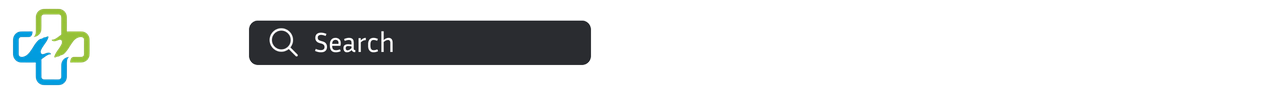
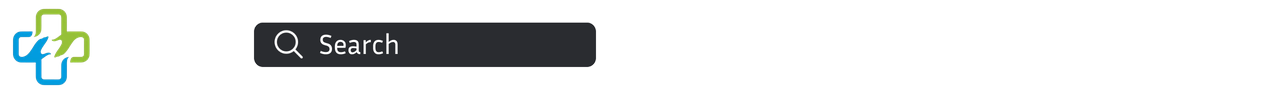
Gui updated.

Changed region(s): [[0.185, 0.2128, 0.4933, 0.7234]]

diff --git a/Interface/gui_win1.py b/Interface/gui_win1.py
@@ -1,0 +1,80 @@
+from pathlib import Path
+from tkinter import Tk, Canvas, Entry, PhotoImage
+
+
+class MyWindow:
+    OUTPUT_PATH = Path(__file__).parent
+    ASSETS_PATH = OUTPUT_PATH / Path(r"assests_ui1")
+
+    def __init__(self):
+        self.window = Tk()
+        self.window.geometry("1280x720")
+        self.window.configure(bg="#141416")
+        self.window.resizable(False, False)
+
+        self.canvas = Canvas(
+            self.window,
+            bg="#141416",
+            height=720,
+            width=1280,
+            bd=0,
+            highlightthickness=0,
+            relief="ridge",
+        )
+        self.canvas.place(x=0, y=0)
+
+        self.images = self.load_images()
+
+        for image in self.images:
+            self.canvas.create_image(image["x"], image["y"], image=image["image"])
+
+        self.canvas.create_text(
+            233.0,
+            31.0,
+            anchor="nw",
+            text="medAI",
+            fill="#FFFFFF",
+            font=("Humanist521BT Bold", 36 * -1),
+        )
+
+        self.entry_image_1 = PhotoImage(file=self.relative_to_assets("entry_1.png"))
+        self.entry_bg_1 = self.canvas.create_image(
+            564.0, 643.0, image=self.entry_image_1
+        )
+        self.entry_1 = Entry(bd=0, bg="#1A1A1F", fg="#000716", highlightthickness=0)
+        self.entry_1.place(x=186.0, y=593.0, width=756.0, height=98.0)
+
+    @staticmethod
+    def relative_to_assets(path: str) -> Path:
+        return MyWindow.ASSETS_PATH / Path(path)
+
+    def load_images(self):
+        images = []
+        image_positions = [
+            (182.0, 57.0),
+            (1139.0, 647.0),
+            (1214.597900390625, 643.0),
+            (631.0, 360.0),
+            (1048.0, 644.0),
+            (409.0, 233.0),
+            (968.0, 233.0),
+            (409.0, 445.0),
+            (968.0, 446.0),
+        ]
+        for i in range(1, 10):
+            image = PhotoImage(file=self.relative_to_assets(f"image_{i}.png"))
+            images.append(
+                {
+                    "image": image,
+                    "x": image_positions[i - 1][0],
+                    "y": image_positions[i - 1][1],
+                }
+            )
+        return images
+
+    def run(self):
+        self.window.mainloop()
+
+
+if __name__ == "__main__":
+    MyWindow().run()

diff --git a/Interface/gui_win2.py b/Interface/gui_win2.py
@@ -1,0 +1,59 @@
+from pathlib import Path
+from tkinter import Tk, Canvas, PhotoImage
+
+
+class MyWindow:
+    OUTPUT_PATH = Path(__file__).parent
+    ASSETS_PATH = OUTPUT_PATH / Path(r"assests_ui2")
+
+    def __init__(self):
+        self.window = Tk()
+        self.window.geometry("1280x720")
+        self.window.configure(bg="#141416")
+        self.window.resizable(False, False)
+
+        self.canvas = Canvas(
+            self.window,
+            bg="#141416",
+            height=720,
+            width=1280,
+            bd=0,
+            highlightthickness=0,
+            relief="ridge",
+        )
+        self.canvas.place(x=0, y=0)
+
+        self.images = self.load_images()
+
+        for image in self.images:
+            self.canvas.create_image(image["x"], image["y"], image=image["image"])
+
+    @staticmethod
+    def relative_to_assets(path: str) -> Path:
+        return MyWindow.ASSETS_PATH / Path(path)
+
+    def load_images(self):
+        images = []
+        image_positions = [
+            (50.0, 360.0),
+            (688.0, 107.0),
+            (1125.0, 50.0),
+            (674.0, 362.0),
+        ]
+        for i in range(1, 5):
+            image = PhotoImage(file=self.relative_to_assets(f"image_{i}.png"))
+            images.append(
+                {
+                    "image": image,
+                    "x": image_positions[i - 1][0],
+                    "y": image_positions[i - 1][1],
+                }
+            )
+        return images
+
+    def run(self):
+        self.window.mainloop()
+
+
+if __name__ == "__main__":
+    MyWindow().run()
